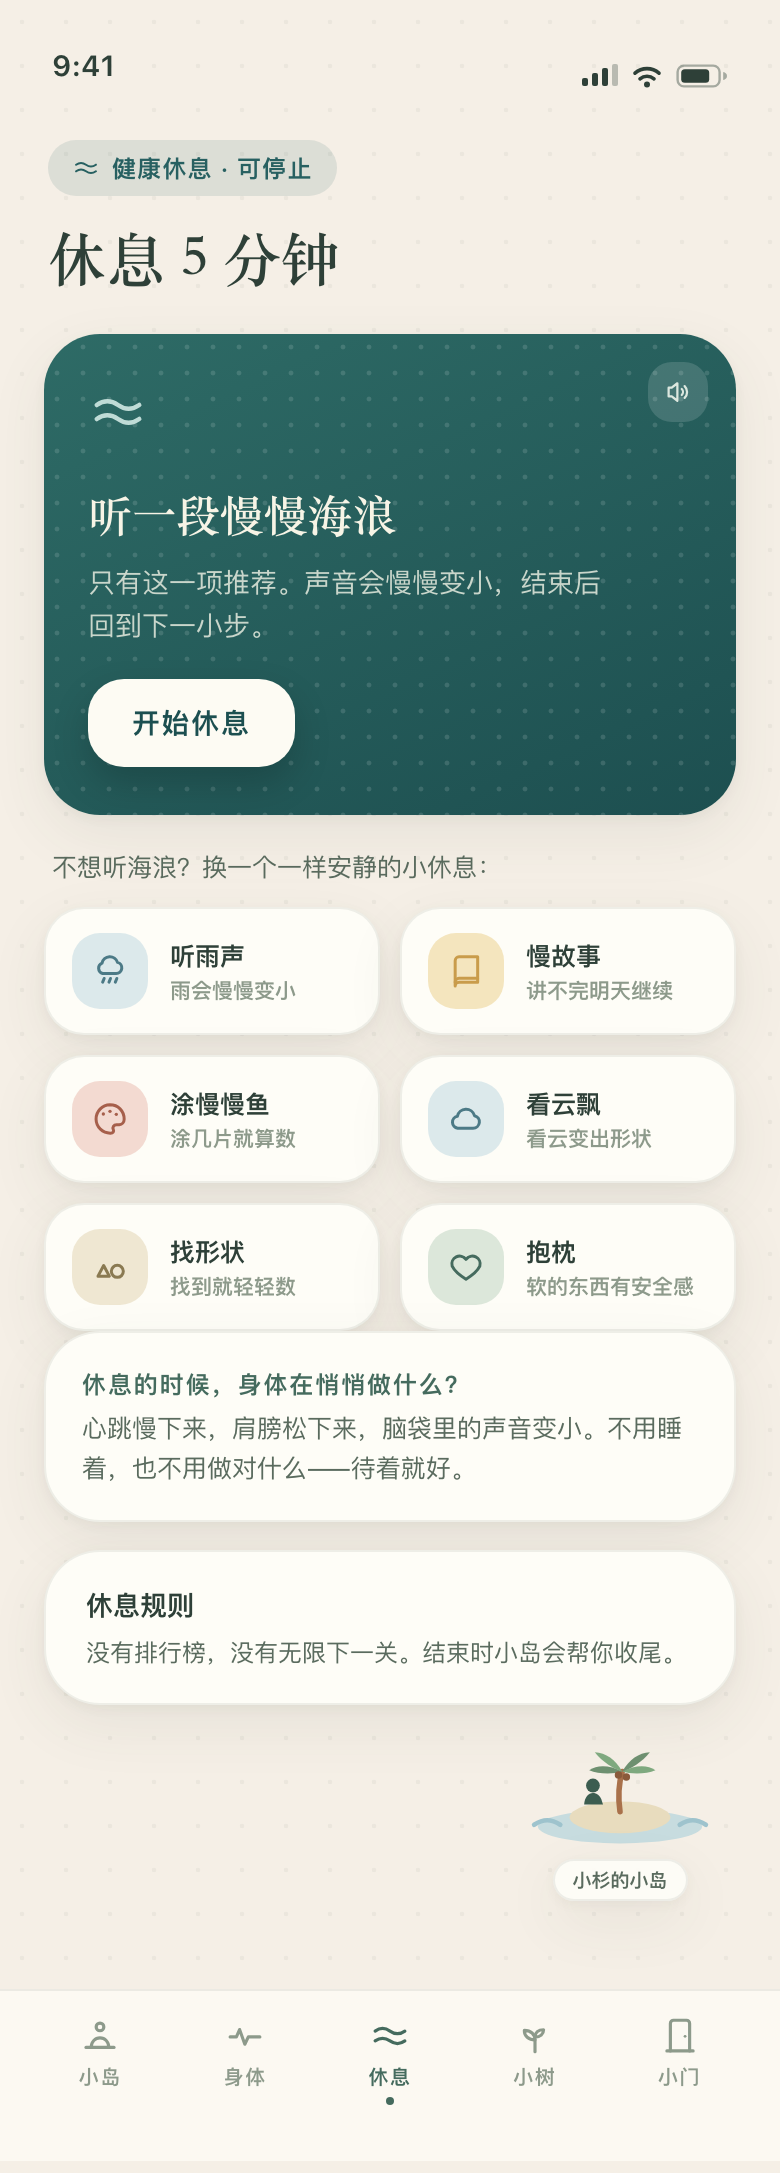
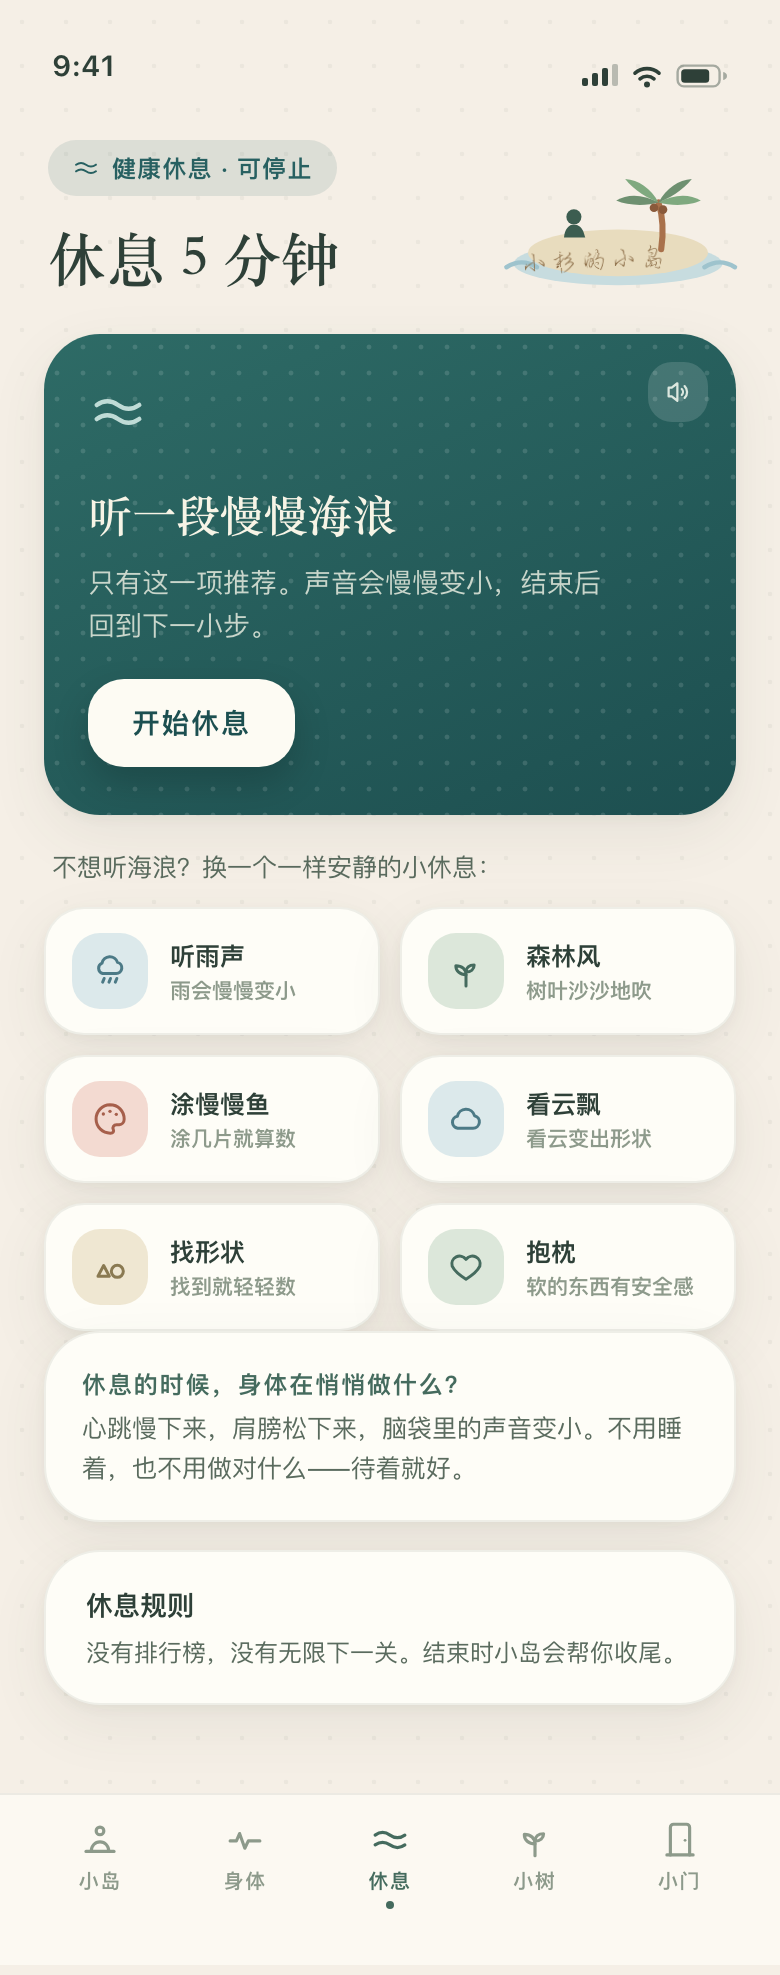
feat: 休息选项「慢故事」替换为「森林风」（350-1500Hz 沙沙声+阵风起伏）
- 移除 TTS 讲故事（品质难评估），所有声音改为可验证的本地合成
- 修复 playNature 重写时遗漏 master 增益节点导致的 ReferenceError
- 决策引擎夜间安全线：晚 8 点后推荐海浪（原慢故事）

diff --git a/js/app.js b/js/app.js
@@ -185,7 +185,7 @@
     move:      { label: '先动一动',     title: '先来 30 秒动一动', desc: '身体想动的话，先帮它放放电，再慢慢回来。',                     time: '约 1 分钟', goto: 'move',  btn: '我准备好了' },
     step:      { label: '先做一小步',   title: '先做 2 分钟小步', desc: '只开始一件事。打开就可以停一下，中断不算失败。',               time: '约 2 分钟', goto: 'step',  btn: '我准备好了' },
     waves:     { label: '听海浪',       title: '可以休息 5 分钟', desc: '听一段慢慢海浪。声音会慢慢变小，结束回下一小步。',             time: '约 5 分钟', goto: 'rest',  btn: '我想休息' },
-    story:     { label: '听慢故事',     title: '听一个慢故事',   desc: '慢慢听。讲不完可以明天继续。',                                 time: '约 5 分钟', goto: 'rest',  btn: '我想听' },
+    forest:    { label: '听森林风',     title: '听一阵森林风',   desc: '树叶沙沙，风一阵一阵地吹。',                                   time: '约 5 分钟', goto: 'rest',  btn: '我想听' },
     idle:      { label: '待一会儿',     title: '那就待一会儿',   desc: '什么都不用做。跟着泡泡呼吸，想动了再说。',                       time: '不着急',   goto: '_breatheCard', btn: '陪我待一会儿' },
     doneToday: { label: '今天已经够啦', title: '今天已经够啦',   desc: '小岛也要休息啦。明天它还在这儿等你。',                           time: '今天到此',  goto: '_bye',  btn: '明天见' }
   };
@@ -195,7 +195,7 @@
     var bodyMap = { cloud: 'observe', fire: 'breath', spring: 'move', battery: 'waves', green: 'step' };
     if (S.lastBody && bodyMap[S.lastBody]) return { id: bodyMap[S.lastBody], why: '跟着你选的身体状态' };
     var h = S.qaHour != null ? S.qaHour : new Date().getHours();
-    if (h >= 20 || h < 6) return { id: 'story', why: '现在晚了，安排轻一点的' };   /* 睡前安全线：夜间只推轻内容 */
+    if (h >= 20 || h < 6) return { id: 'waves', why: '现在晚了，安排轻一点的' };   /* 睡前安全线：夜间只推轻内容 */
     if (h >= 18 && h < 20) return { id: 'step', why: '按现在的时间安排' };         /* 作业前 */
     var mode = PARENT_MODES[S.settings.suggest] || PARENT_MODES[0];
     if (mode.mode !== 'auto') return { id: mode.mode, why: '家长今天预设的' };
@@ -238,9 +238,9 @@
     }
     if (g === '_bye') { toast('明天见 🌿'); return; }
     goto(g);
-    if (S.curSug === 'story') { /* 慢故事预设：进入休息页后切换内容 */
-      $('#restTitle').textContent = '听一个慢故事';
-      $('#restDesc').textContent = '慢慢听，讲不完可以明天继续。声音轻轻的。';
+    if (S.curSug === 'forest') { /* 森林风预设：进入休息页后切换内容 */
+      $('#restTitle').textContent = '听一阵森林风';
+      $('#restDesc').textContent = '树叶沙沙，风一阵一阵地吹。想停就停。';
       $('#restStart').textContent = '开始听';
     }
   });
@@ -659,34 +659,11 @@
       } catch (e) {}
     }, 900);
   }
-  function playStoryVoice() {
-    try {
-      if (!window.speechSynthesis) return false;
-      var txt = '很小很小的地方，有一座慢慢岛。' +
-        '岛上的树，一天只长一片叶子。海浪来的时候，树就把叶子翻个面，像跟海打招呼。' +
-        '一个孩子蹲在树下，数天上的云。一朵，两朵，三朵。' +
-        '数着数着，风把云吹散了。散掉的云，明天还会回来。' +
-        '你也是。休息好了，明天又是新的一天。';
-      var u = new SpeechSynthesisUtterance(txt);
-      u.lang = 'zh-CN'; u.rate = 0.82; u.pitch = 0.95; u.volume = 0.9;
-      var vs = speechSynthesis.getVoices();
-      for (var i = 0; i < vs.length; i++) {
-        if (vs[i].lang && vs[i].lang.indexOf('zh') === 0) { u.voice = vs[i]; break; }
-      }
-      u.onend = function () { audio.story = false; };
-      speechSynthesis.cancel();
-      speechSynthesis.speak(u);
-      audio.story = true;
-      console.log('[story] TTS started, zhVoices=' + vs.length);
-      return true;
-    } catch (e) { return false; }
-  }
   function playNature(kind) {
     var ctx = audioCtx();
     if (!ctx) { console.log('[audio] WebAudio 不可用，保持静音画面'); return; }
     if (ctx.state === 'suspended') { ctx.resume(); }
     stopNature();
-    if (kind === 'story') playStoryVoice();
     var master = ctx.createGain();
     master.gain.value = 0.0001;
     master.connect(ctx.destination);
@@ -704,6 +681,13 @@
       filt = ctx.createBiquadFilter(); filt.type = 'highpass'; filt.frequency.value = 1100;
       src.connect(filt); filt.connect(master);
       base = 0.12; deep = 0.03; lfoHz = 0.4;
+    } else if (kind === 'forest') {
+      /* 森林风：350–1500Hz 频段的沙沙声，0.3Hz 阵风起伏 */
+      src = ctx.createBufferSource(); src.buffer = noiseBuffer(ctx); src.loop = true;
+      var fh = ctx.createBiquadFilter(); fh.type = 'highpass'; fh.frequency.value = 350;
+      filt = ctx.createBiquadFilter(); filt.type = 'lowpass'; filt.frequency.value = 1500;
+      src.connect(fh); fh.connect(filt); filt.connect(master);
+      base = 0.13; deep = 0.06; lfoHz = 0.3;
     } else if (kind === 'pad') {
       /* 轻音床：三支正弦叠一个温暖的和声，看云/找形状/抱枕/涂色用 */
       base = 0.05; deep = 0.015; lfoHz = 0.15;
@@ -713,7 +697,7 @@
         o.connect(g); g.connect(master); o.start();
         osc.push(o);
       });
-    } else { /* calm：慢故事的轻底噪 */
+    } else { /* calm：轻底噪 */
       src = ctx.createBufferSource(); src.buffer = noiseBuffer(ctx); src.loop = true;
       filt = ctx.createBiquadFilter(); filt.type = 'lowpass'; filt.frequency.value = 600;
       src.connect(filt); filt.connect(master);
@@ -743,7 +727,7 @@
     var t = title || '';
     if (t.indexOf('海浪') >= 0) return 'waves';
     if (t.indexOf('雨') >= 0) return 'rain';
-    if (t.indexOf('故事') >= 0) return 'story';
+    if (t.indexOf('森林') >= 0 || t.indexOf('树叶') >= 0) return 'forest';
     if (t.indexOf('云') >= 0) return 'pad';
     if (t.indexOf('形状') >= 0 || t.indexOf('圆形') >= 0) return 'pad';
     if (t.indexOf('抱') >= 0) return 'pad';
@@ -1472,13 +1456,13 @@
       playNature('waves');
       audioFade(0.75);
     }
-    if (d === 'storyrun') {
+    if (d === 'forestrun') {
       goto('rest');
       S.rest.running = true;
       $('#restHero').classList.add('rest-running');
-      $('#restTitle').textContent = '听一个慢故事';
-      $('#restNow').textContent = '在播放 · 听一个慢故事';
-      playNature('story');
+      $('#restTitle').textContent = '听一阵森林风';
+      $('#restNow').textContent = '在播放 · 听一阵森林风';
+      playNature('forest');
     }
     if (d === 'parsetest') {
       ['25 + 37 = ？', '8 - 3', '6 × 4 = ?', '144 ÷ 12', '一道分数应用题怎么办'].forEach(function (q) {

diff --git a/index.html b/index.html
@@ -504,9 +504,9 @@
                 <span class="tile-ic ti-mist"><svg class="ic"><use href="#i-rain"/></svg></span>
                 <span class="tile-tx"><b>听雨声</b><span class="tdesc">雨会慢慢变小</span></span>
               </button>
-              <button class="tile tile-h" data-title="听一个慢故事" data-desc="慢慢讲，讲不完可以明天继续。">
-                <span class="tile-ic ti-gold"><svg class="ic"><use href="#i-book"/></svg></span>
-                <span class="tile-tx"><b>慢故事</b><span class="tdesc">讲不完明天继续</span></span>
+              <button class="tile tile-h" data-title="听一阵森林风" data-desc="树叶沙沙，风一阵一阵地吹。">
+                <span class="tile-ic ti-sage"><svg class="ic"><use href="#i-tree"/></svg></span>
+                <span class="tile-tx"><b>森林风</b><span class="tdesc">树叶沙沙地吹</span></span>
               </button>
               <button class="tile tile-h" data-title="涂一只慢慢鱼" data-desc="不用涂完，涂几片就算数。">
                 <span class="tile-ic ti-rose"><svg class="ic"><use href="#i-palette"/></svg></span>
